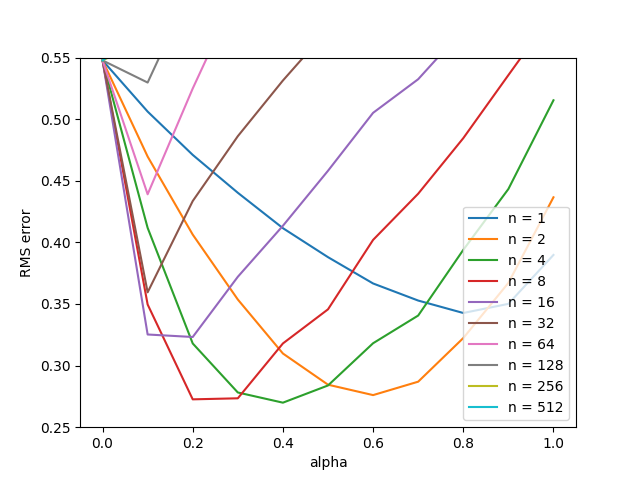
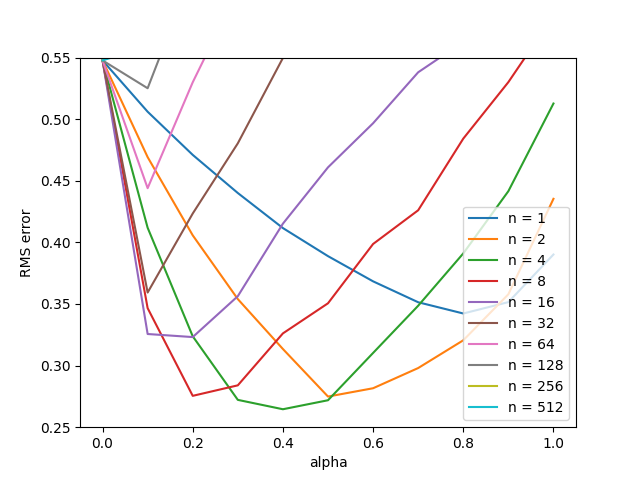
refactor

diff --git a/chapter-7/random_walk.py b/chapter-7/random_walk.py
@@ -1,34 +1,115 @@
 import numpy as np
 import matplotlib.pyplot as plt
 from tqdm import tqdm
-import string
 import math
 
-NO_STATES = 19
-# states with value 0, 20 are 2 dummy states, indicate 2 terminal states.
-STATES = {c: i for c, i in zip(string.ascii_uppercase[:NO_STATES + 1], range(1,  NO_STATES + 1))}
-START_STATE = STATES['J']
-TRUE_VALUES = np.arange(-20, 22, 2) / 20.0
-TRUE_VALUES[0] = TRUE_VALUES[-1] = 0
+
+class RandomWalk:
+
+    def __init__(self, n_states, start_state):
+        self._n_states = n_states
+        self._states = np.arange(1, n_states + 1)
+        self._start_state = start_state
+        self._end_states = [0, n_states + 1]
+        self.ACTION_LEFT = -1
+        self.ACTION_RIGHT = 1
+        self._actions = [self.ACTION_LEFT, self.ACTION_RIGHT]
+        self._action_prob = 0.5
 
 
-def is_termial(state):
-    return state == 0 or state == NO_STATES + 1
+    @property
+    def n_states(self):
+        return self._n_states
 
 
-def take_action(state, action):
-    next_state = state + action
-    if next_state == 0:
-        reward = -1
-    elif next_state == NO_STATES + 1:
-        reward = 1
-    else:
-        reward = 0
-    return next_state, reward
+    @property
+    def states(self):
+        return self._states
 
 
-def n_step_temporal_difference(V, n, alpha, gamma):
-    state = START_STATE
+    @property
+    def start_state(self):
+        return self._start_state
+
+
+    @property
+    def end_states(self):
+        return self._end_states
+
+
+    @property
+    def actions(self):
+        return self._actions
+
+
+    @property
+    def action_prob(self):
+        return self._action_prob
+    
+
+    def is_terminal(self, state):
+        return state in self.end_states
+
+
+    def take_action(self, state, action):
+        next_state = state + action
+        if next_state == 0:
+            reward = -1
+        elif next_state == self.n_states + 1:
+            reward = 1
+        else:
+            reward = 0
+        return next_state, reward
+
+
+
+def get_true_value(random_walk, gamma):
+    """
+    Compute true value by Bellman equations
+    """
+    P = np.zeros((random_walk.n_states, random_walk.n_states))
+    r = np.zeros((random_walk.n_states + 2, ))
+    true_value = np.zeros((random_walk.n_states + 2, ))
+    
+    for state in random_walk.states:
+        next_states = []
+        rewards = []
+
+        for action in random_walk.actions:
+            next_state = state + action
+            next_states.append(next_state)
+
+            if next_state == 0:
+                reward = -1
+            elif next_state == random_walk.n_states + 1:
+                reward = 1
+            else:
+                reward = 0
+            rewards.append(reward)
+
+        for state_, reward_ in zip(next_states, rewards):
+            if not random_walk.is_terminal(state_):
+                P[state - 1, state_ - 1] = random_walk.action_prob * 1
+                r[state_] = reward_
+        
+    u = np.zeros((random_walk.n_states, ))
+    u[0] = random_walk.action_prob * 1 * (-1 + gamma * -1)
+    u[-1] = random_walk.action_prob * 1 * (1 + gamma * 1)
+
+    r = r[1:-1]
+    true_value[1:-1] = np.linalg.inv(np.identity(random_walk.n_states) - gamma * P).dot(0.5 * (P.dot(r) + u))
+    true_value[0] = -1
+    true_value[-1] = 1
+
+    return true_value
+
+
+def get_action(random_walk):
+    return np.random.choice(random_walk.actions)
+
+
+def n_step_temporal_difference(V, n, alpha, gamma, random_walk):
+    state = random_walk.start_state
     T = float('inf')
     t = 0
 
@@ -39,11 +120,11 @@ def n_step_temporal_difference(V, n, alpha, gamma):
 
     while True:
         if t < T:
-            action = np.random.choice([-1, 1])
-            next_state, reward = take_action(state, action)
+            action = get_action(random_walk)
+            next_state, reward = random_walk.take_action(state, action)
             states.append(next_state)
             rewards.append(reward)
-            if is_termial(next_state):
+            if random_walk.is_terminal(next_state):
                 T = t + 1
         tau = t - n + 1 # updated state's time
         if tau >= 0:
@@ -52,7 +133,7 @@ def n_step_temporal_difference(V, n, alpha, gamma):
                 G += math.pow(gamma, i - tau - 1) * rewards[i]
             if tau + n < T:
                 G += math.pow(gamma, n) * V[states[tau + n]]
-            if not is_termial(states[tau]):
+            if not random_walk.is_terminal(states[tau]):
                 V[states[tau]] += alpha * (G - V[states[tau]])
         t += 1
         if tau == T - 1:
@@ -66,15 +147,17 @@ def rmse():
     gamma = 1
     ns = np.power(2, np.arange(0, 10))
     alphas = np.arange(0, 1.1, 0.1)
+    random_walk = RandomWalk(19, 10)
+    true_value = get_true_value(random_walk, gamma)
 
     errors = np.zeros((len(ns), len(alphas)))
     for n_i, n in enumerate(ns):
         for alpha_i, alpha in enumerate(alphas):
             for _ in tqdm(range(runs)):
-                V = np.zeros(NO_STATES + 2)
+                V = np.zeros(random_walk.n_states + 2)
                 for _ in range(episodes):
-                    n_step_temporal_difference(V, n, alpha, gamma)
-                    rmse = np.sqrt(np.sum(np.power(V - TRUE_VALUES, 2) / NO_STATES))
+                    n_step_temporal_difference(V, n, alpha, gamma, random_walk)
+                    rmse = np.sqrt(np.sum(np.power(V - true_value, 2) / random_walk.n_states))
                     errors[n_i, alpha_i] += rmse
 
     errors /= episodes * runs

diff --git a/chapter-4/gridworld.py b/chapter-4/gridworld.py
@@ -28,7 +28,8 @@ def iterative_policy_evaluation(theta):
 
                 next_states = []
                 for action in actions:
-                    if i + actions[action][0] == GRID_SIZE or i + actions[action][0] == -1 or j + actions[action][1] == GRID_SIZE or j + actions[action][1] == -1:
+                    if i + actions[action][0] == GRID_SIZE or i + actions[action][0] == -1 \
+                        or j + actions[action][1] == GRID_SIZE or j + actions[action][1] == -1:
                         next_states.append((i, j))
                     else:
                         next_states.append((i + actions[action][0], j + actions[action][1]))
